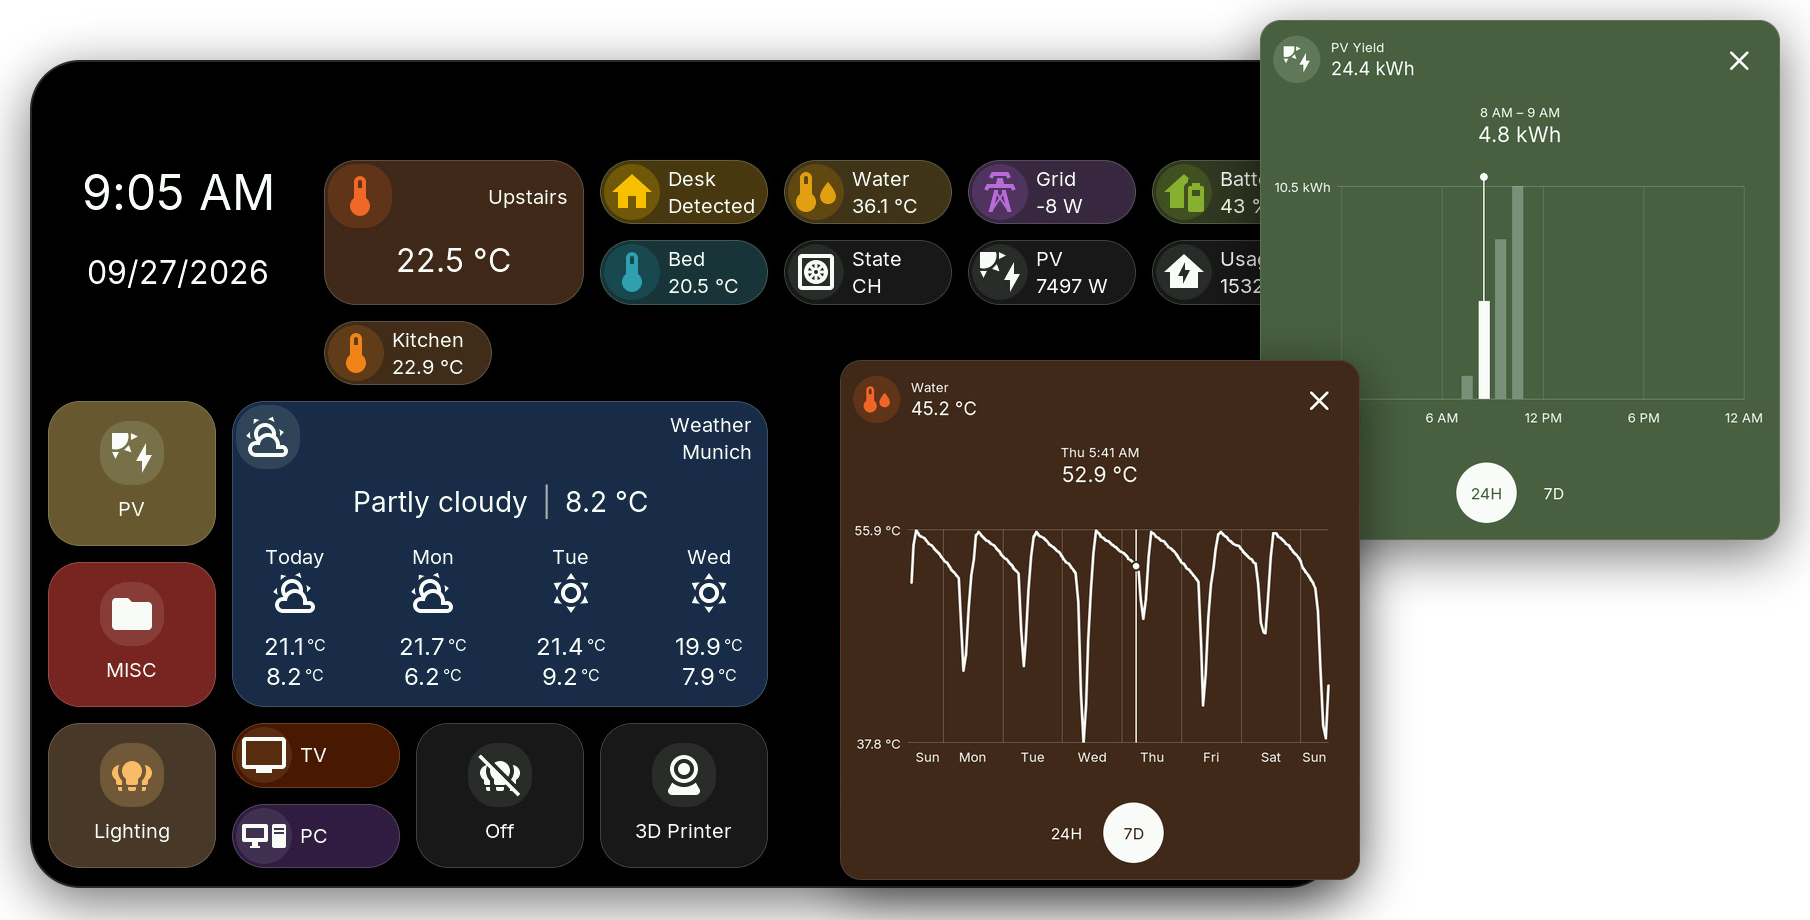
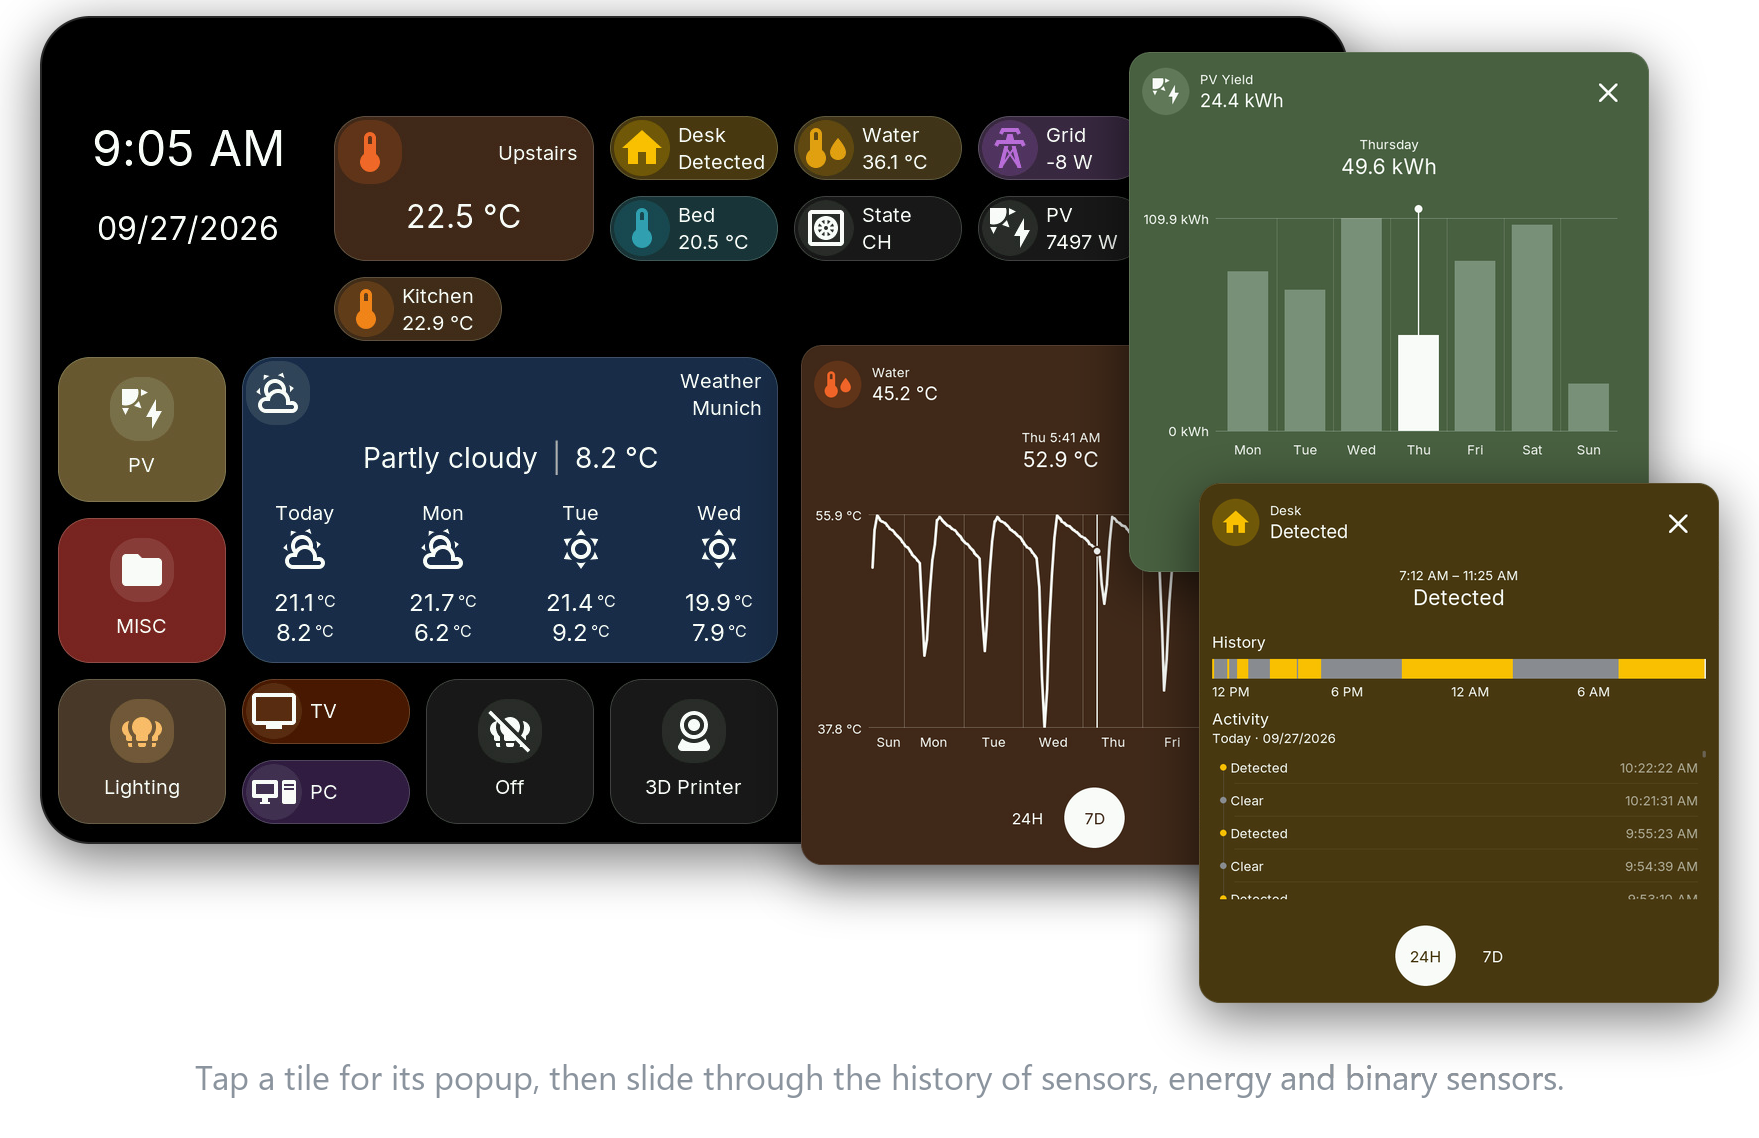
Refresh the README header, hero and v0.7.0 tile overview

diff --git a/README.md b/README.md
@@ -1,24 +1,23 @@
-<div align="center">
+<picture>
+  <source media="(prefers-color-scheme: dark)" srcset="docs/images/readme-title-dark.png">
+  <img src="docs/images/readme-title-light.png" alt="HomeTiles" height="56">
+</picture>
 
-# <img src="docs/images/favicon.svg" width="42" alt="" align="top"> HomeTiles
+**Touch dashboards for Home Assistant on ESP32 displays.** Lights, climate, sensors, energy, weather and more on a 4 to 10.1 inch touch screen.
 
-**Touch dashboards for Home Assistant on ESP32 displays.**
+<a href="https://github.com/GalusPeres/HomeTiles/releases/latest"><img src="https://img.shields.io/github/v/release/GalusPeres/HomeTiles?label=release" alt="Latest release"></a>
+<a href="LICENSE"><img src="https://img.shields.io/github/license/GalusPeres/HomeTiles" alt="MIT License"></a>
+<a href="https://galusperes.github.io/"><img src="https://img.shields.io/badge/docs-online-2f81f7" alt="Documentation"></a>
+<a href="https://galusperes.github.io/installer/"><img src="https://img.shields.io/badge/flasher-web-26a69a" alt="Online flasher"></a>
+<a href="https://buymeacoffee.com/galusperes"><img src="https://img.shields.io/badge/Buy%20me%20a%20coffee-support-FFDD00?logo=buymeacoffee&logoColor=white" alt="Buy Me a Coffee"></a>
 
-[**Documentation**](https://galusperes.github.io/) · [**Online flasher**](https://galusperes.github.io/installer/) · [**Latest release**](https://github.com/GalusPeres/HomeTiles/releases/latest)
-
-<a href="https://buymeacoffee.com/galusperes"><img src="https://cdn.buymeacoffee.com/buttons/v2/default-yellow.png" alt="Buy Me a Coffee" height="40"></a>
-
-<img src="docs/images/readme-hero.png" alt="HomeTiles home screen with sensor and energy popups" width="100%">
-
-<sub>Tap a tile for its popup, then slide through the history of sensors, energy and binary sensors.</sub>
-
-</div>
+<img src="docs/images/readme-hero.png" alt="HomeTiles home screen with sensor, energy and binary sensor popups" width="100%">
 
 ## New in v0.7.0
 
-<img src="docs/images/readme-new.png" alt="Half-size tiles, color rules and tiles in the color of their light" width="100%">
+<img src="docs/images/readme-new.png" alt="Half-size tiles, color rules, tiles in the color of their light and folders that follow an entity" width="100%">
 
-Half-size tiles, icon circles, color rules and adjustable corners, plus built-in cameras shared with Home Assistant. Update HomeTiles Bridge to **v0.7.0** first and [export your dashboard](https://galusperes.github.io/updating/) before updating. [All changes](docs/releases/v0.7.0.md)
+Half-size tiles, icon circles, color rules and adjustable corners. Folders can follow an entity, like a climate folder that turns orange while heating and blue while cooling, or a lighting folder in the color of its lights. Built-in cameras are shared with Home Assistant. Update HomeTiles Bridge to **v0.7.0** first and [export your dashboard](https://galusperes.github.io/updating/) before updating. [All changes](docs/releases/v0.7.0.md)
 
 ## Get started
 
